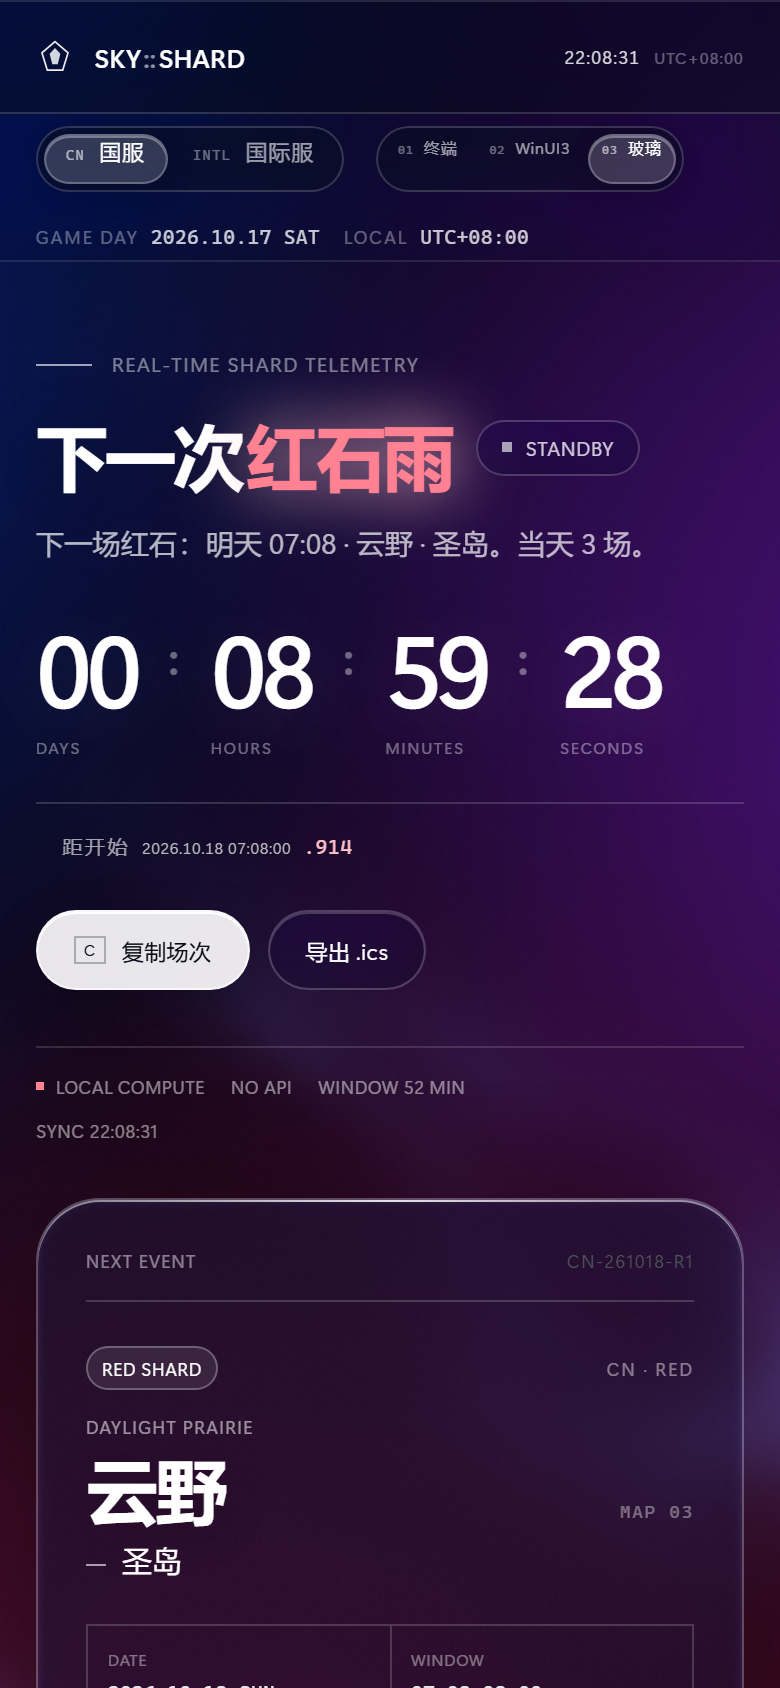
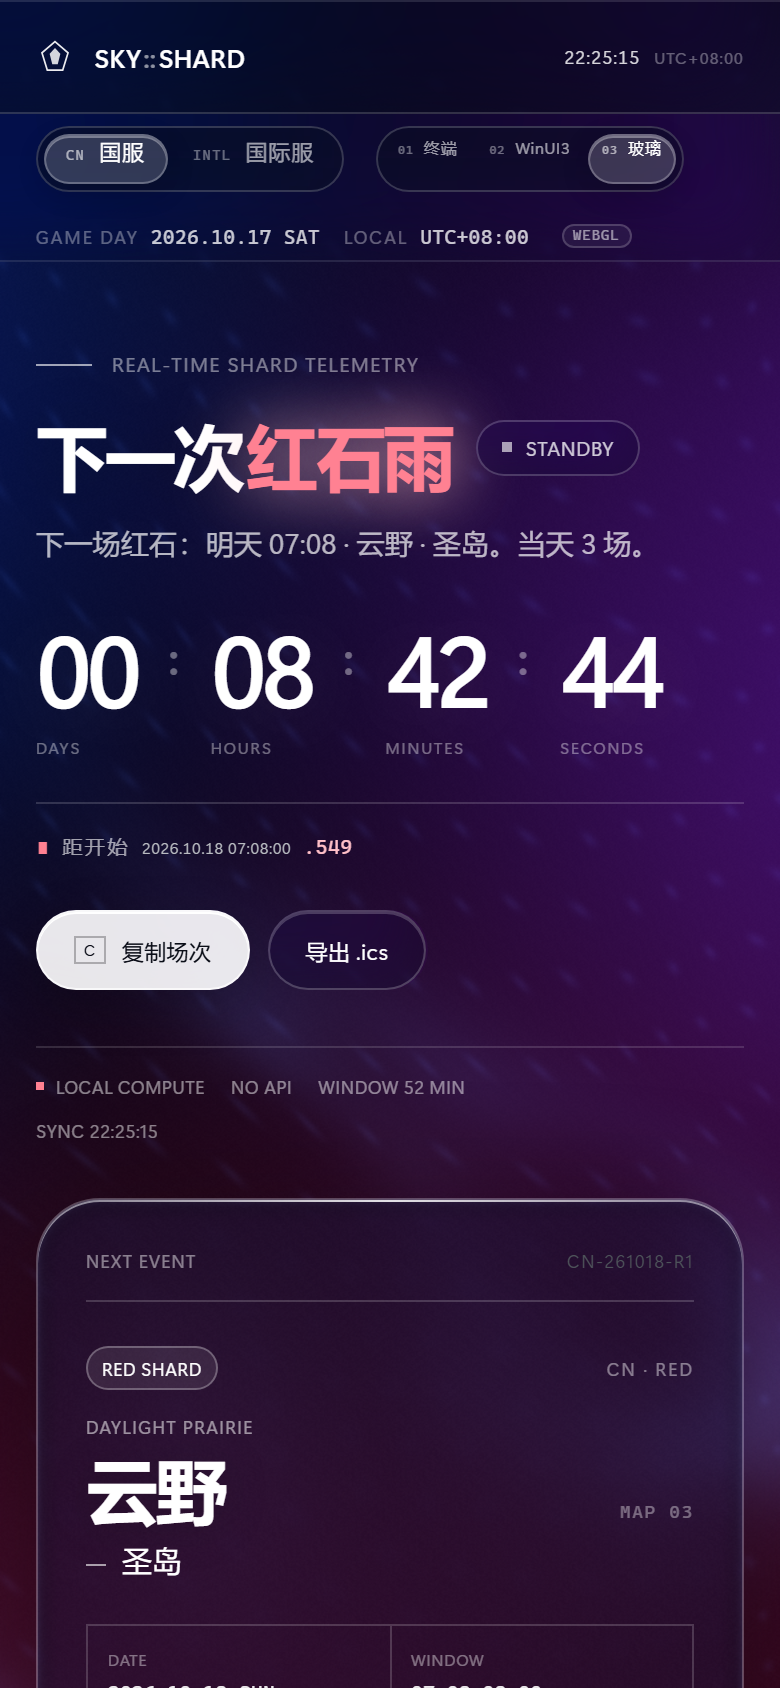
Make liquid glass distortion visible and add WebGL badge

diff --git a/glass-bg.js b/glass-bg.js
@@ -96,6 +96,10 @@
       caustic = pow(caustic, 8.0);
       col += vec3(0.14, 0.24, 0.42) * caustic * 0.65;
 
+      float ribbons = abs(sin(q.x * 96.0 + n * 24.0 + t * 3.2) * sin(q.y * 84.0 - n * 20.0 - t * 2.6));
+      ribbons = pow(ribbons, 16.0);
+      col += vec3(0.08, 0.13, 0.24) * ribbons * 0.28;
+
       col *= smoothstep(1.45, 0.22, length(p));
       col += (hash(gl_FragCoord.xy + t) - 0.5) * 0.012;
 
@@ -148,28 +152,37 @@
       if (alpha <= 0.0) discard;
 
       vec2 uv = gl_FragCoord.xy / u_res;
+      vec2 panelCenter = (u_rect.xy + u_rect.zw * 0.5) / u_res;
       vec2 n = p / max(halfSize, vec2(1.0));
       float nLength = length(n);
       n = nLength > 0.0001 ? n / nLength : vec2(0.0);
-      float edge = 1.0 - smoothstep(0.0, 20.0, -d);
-      vec2 offset = n * edge * 0.011;
+      float edge = 1.0 - smoothstep(0.0, 24.0, -d);
+      vec2 offset = n * edge * 0.016;
+      vec2 lensUv = panelCenter + (uv - panelCenter) * 0.94;
 
       vec3 base = blurSample(uv, 7.0);
-      vec3 refracted = blurSample(uv + offset, 3.5);
-      vec3 col = mix(base, refracted, edge * 0.72);
+      vec3 lens = blurSample(lensUv, 8.0);
+      vec3 refracted = blurSample(uv + offset, 4.0);
+      vec3 col = mix(base, lens, 0.16);
+      col = mix(col, refracted, edge * 0.65);
 
-      float ca = edge * 0.35;
-      col.r = mix(col.r, texture2D(u_tex, uv + offset * 1.025).r, ca);
-      col.b = mix(col.b, texture2D(u_tex, uv + offset * 0.975).b, ca);
+      float ca = edge * 0.38;
+      col.r = mix(col.r, texture2D(u_tex, uv + offset * 1.03).r, ca);
+      col.b = mix(col.b, texture2D(u_tex, uv + offset * 0.97).b, ca);
 
-      float rim = exp(-max(0.0, -d) * 0.42);
+      float rim = exp(-max(0.0, -d) * 0.38);
+      float inward = smoothstep(0.0, 20.0, -d);
       float top = smoothstep(0.0, 1.0, (p.y / max(halfSize.y, 1.0)) * 0.5 + 0.5);
+      vec2 hp = p / max(halfSize, vec2(1.0));
+      float bubble = smoothstep(0.58, 0.0, length(hp - vec2(-0.55, 0.55)));
 
       col = mix(col, u_tint, 0.60);
-      col += u_tint * 0.16;
-      col += vec3(0.58, 0.72, 1.0) * rim * 0.14;
-      col += vec3(0.34, 0.44, 0.78) * top * 0.035;
-      col += (hash(gl_FragCoord.xy + u_time) - 0.5) * 0.012;
+      col += u_tint * 0.14;
+      col *= 0.84 + 0.16 * inward;
+      col += vec3(0.58, 0.72, 1.0) * rim * 0.16;
+      col += vec3(0.34, 0.44, 0.78) * top * 0.03;
+      col += vec3(0.35, 0.45, 0.70) * bubble * 0.04;
+      col += (hash(gl_FragCoord.xy + u_time) - 0.5) * 0.015;
 
       gl_FragColor = vec4(col, alpha);
     }

diff --git a/index.html b/index.html
@@ -22,8 +22,8 @@
       }
     })();
   </script>
-  <link rel="stylesheet" href="styles.css?v=2.3.0">
-  <link rel="stylesheet" href="themes.css?v=2.3.0">
+  <link rel="stylesheet" href="styles.css?v=2.4.0">
+  <link rel="stylesheet" href="themes.css?v=2.4.0">
 </head>
 <body data-server="cn" data-stone="red">
   <a class="skip-link" href="#now">跳到主要内容</a>
@@ -81,6 +81,7 @@
         <span><i>GAME DAY</i><b id="gameDayLabel">—</b></span>
         <span><i>LOCAL</i><b id="localZoneLabel">—</b></span>
         <span class="mode-hint" id="modeHint">UTC+8 自然日</span>
+        <span class="glass-engine">WEBGL</span>
       </div>
     </div>
   </div>
@@ -298,7 +299,7 @@
       </div>
     </div>
     <div class="footer-meta">
-      <span>v2.3.0</span>
+      <span>v2.4.0</span>
       <span>VANILLA JS</span>
       <span>0 DEPENDENCIES</span>
       <span id="footerTz">TZ —</span>
@@ -321,7 +322,7 @@
   <p class="sr-only" id="srStatus" role="status" aria-live="polite"></p>
   <noscript><div class="noscript">此工具需要 JavaScript 才能在本地计算红黑石时间。</div></noscript>
 
-  <script src="glass-bg.js?v=2.3.0"></script>
-  <script src="app.js?v=2.3.0"></script>
+  <script src="glass-bg.js?v=2.4.0"></script>
+  <script src="app.js?v=2.4.0"></script>
 </body>
 </html>

diff --git a/themes.css b/themes.css
@@ -2026,3 +2026,28 @@ html[data-theme="glass"].glass-liquid-ready .rule-card {
   -webkit-backdrop-filter: none !important;
   backdrop-filter: none !important;
 }
+
+.glass-engine {
+  display: none;
+}
+
+html[data-theme="glass"].glass-liquid-ready .glass-engine {
+  display: inline-flex;
+  align-items: center;
+  margin-left: 6px;
+  padding: 2px 6px;
+  border: 1px solid rgba(255, 255, 255, 0.18);
+  border-radius: 999px;
+  background: rgba(255, 255, 255, 0.06);
+  color: rgba(255, 255, 255, 0.56);
+  font: 8px var(--mono);
+  letter-spacing: 0.08em;
+}
+
+@media (max-width: 680px) {
+  html[data-theme="glass"].glass-liquid-ready .glass-engine {
+    margin-left: 4px;
+    padding: 1px 5px;
+    font-size: 7px;
+  }
+}

diff --git a/app.js b/app.js
@@ -1816,12 +1816,12 @@
     winuiComponentsPromise = new Promise((resolve) => {
       const css = document.createElement('link');
       css.rel = 'stylesheet';
-      css.href = 'winui-controls.css?v=2.3.0';
+      css.href = 'winui-controls.css?v=2.4.0';
       css.id = 'winuiControlsStyle';
       document.head.appendChild(css);
 
       const script = document.createElement('script');
-      script.src = 'winui-controls.js?v=2.3.0';
+      script.src = 'winui-controls.js?v=2.4.0';
       script.onload = () => {
         syncWinUIComponentsStyle();
         mountWinUIComponents();
